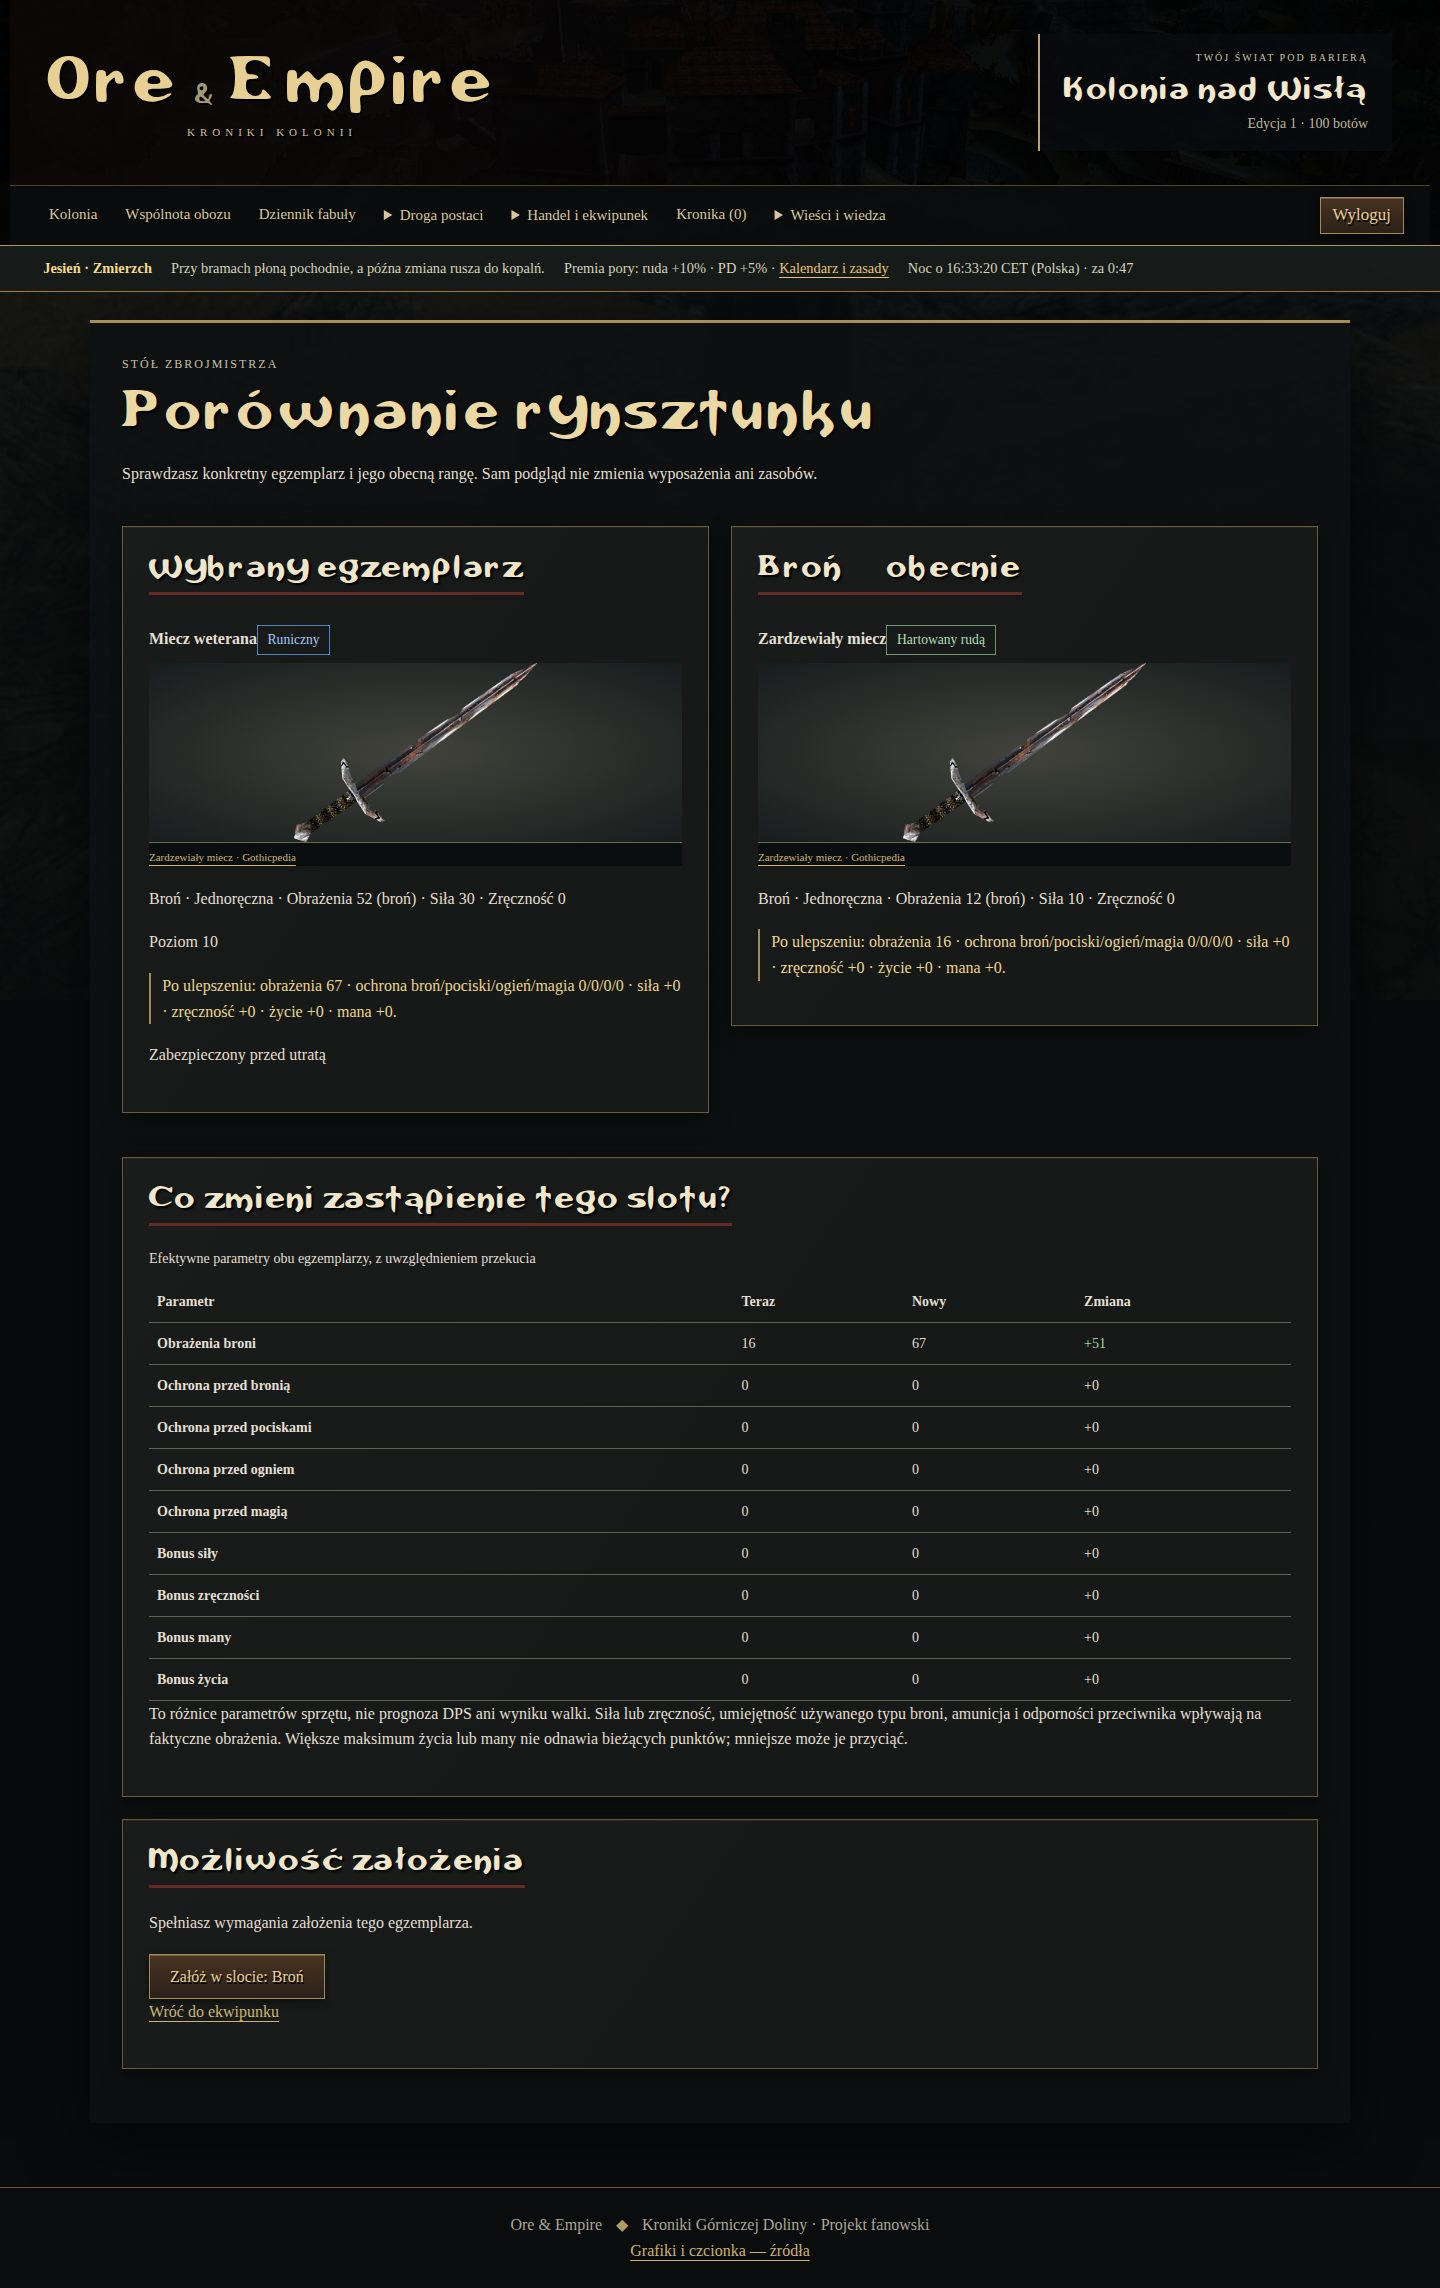
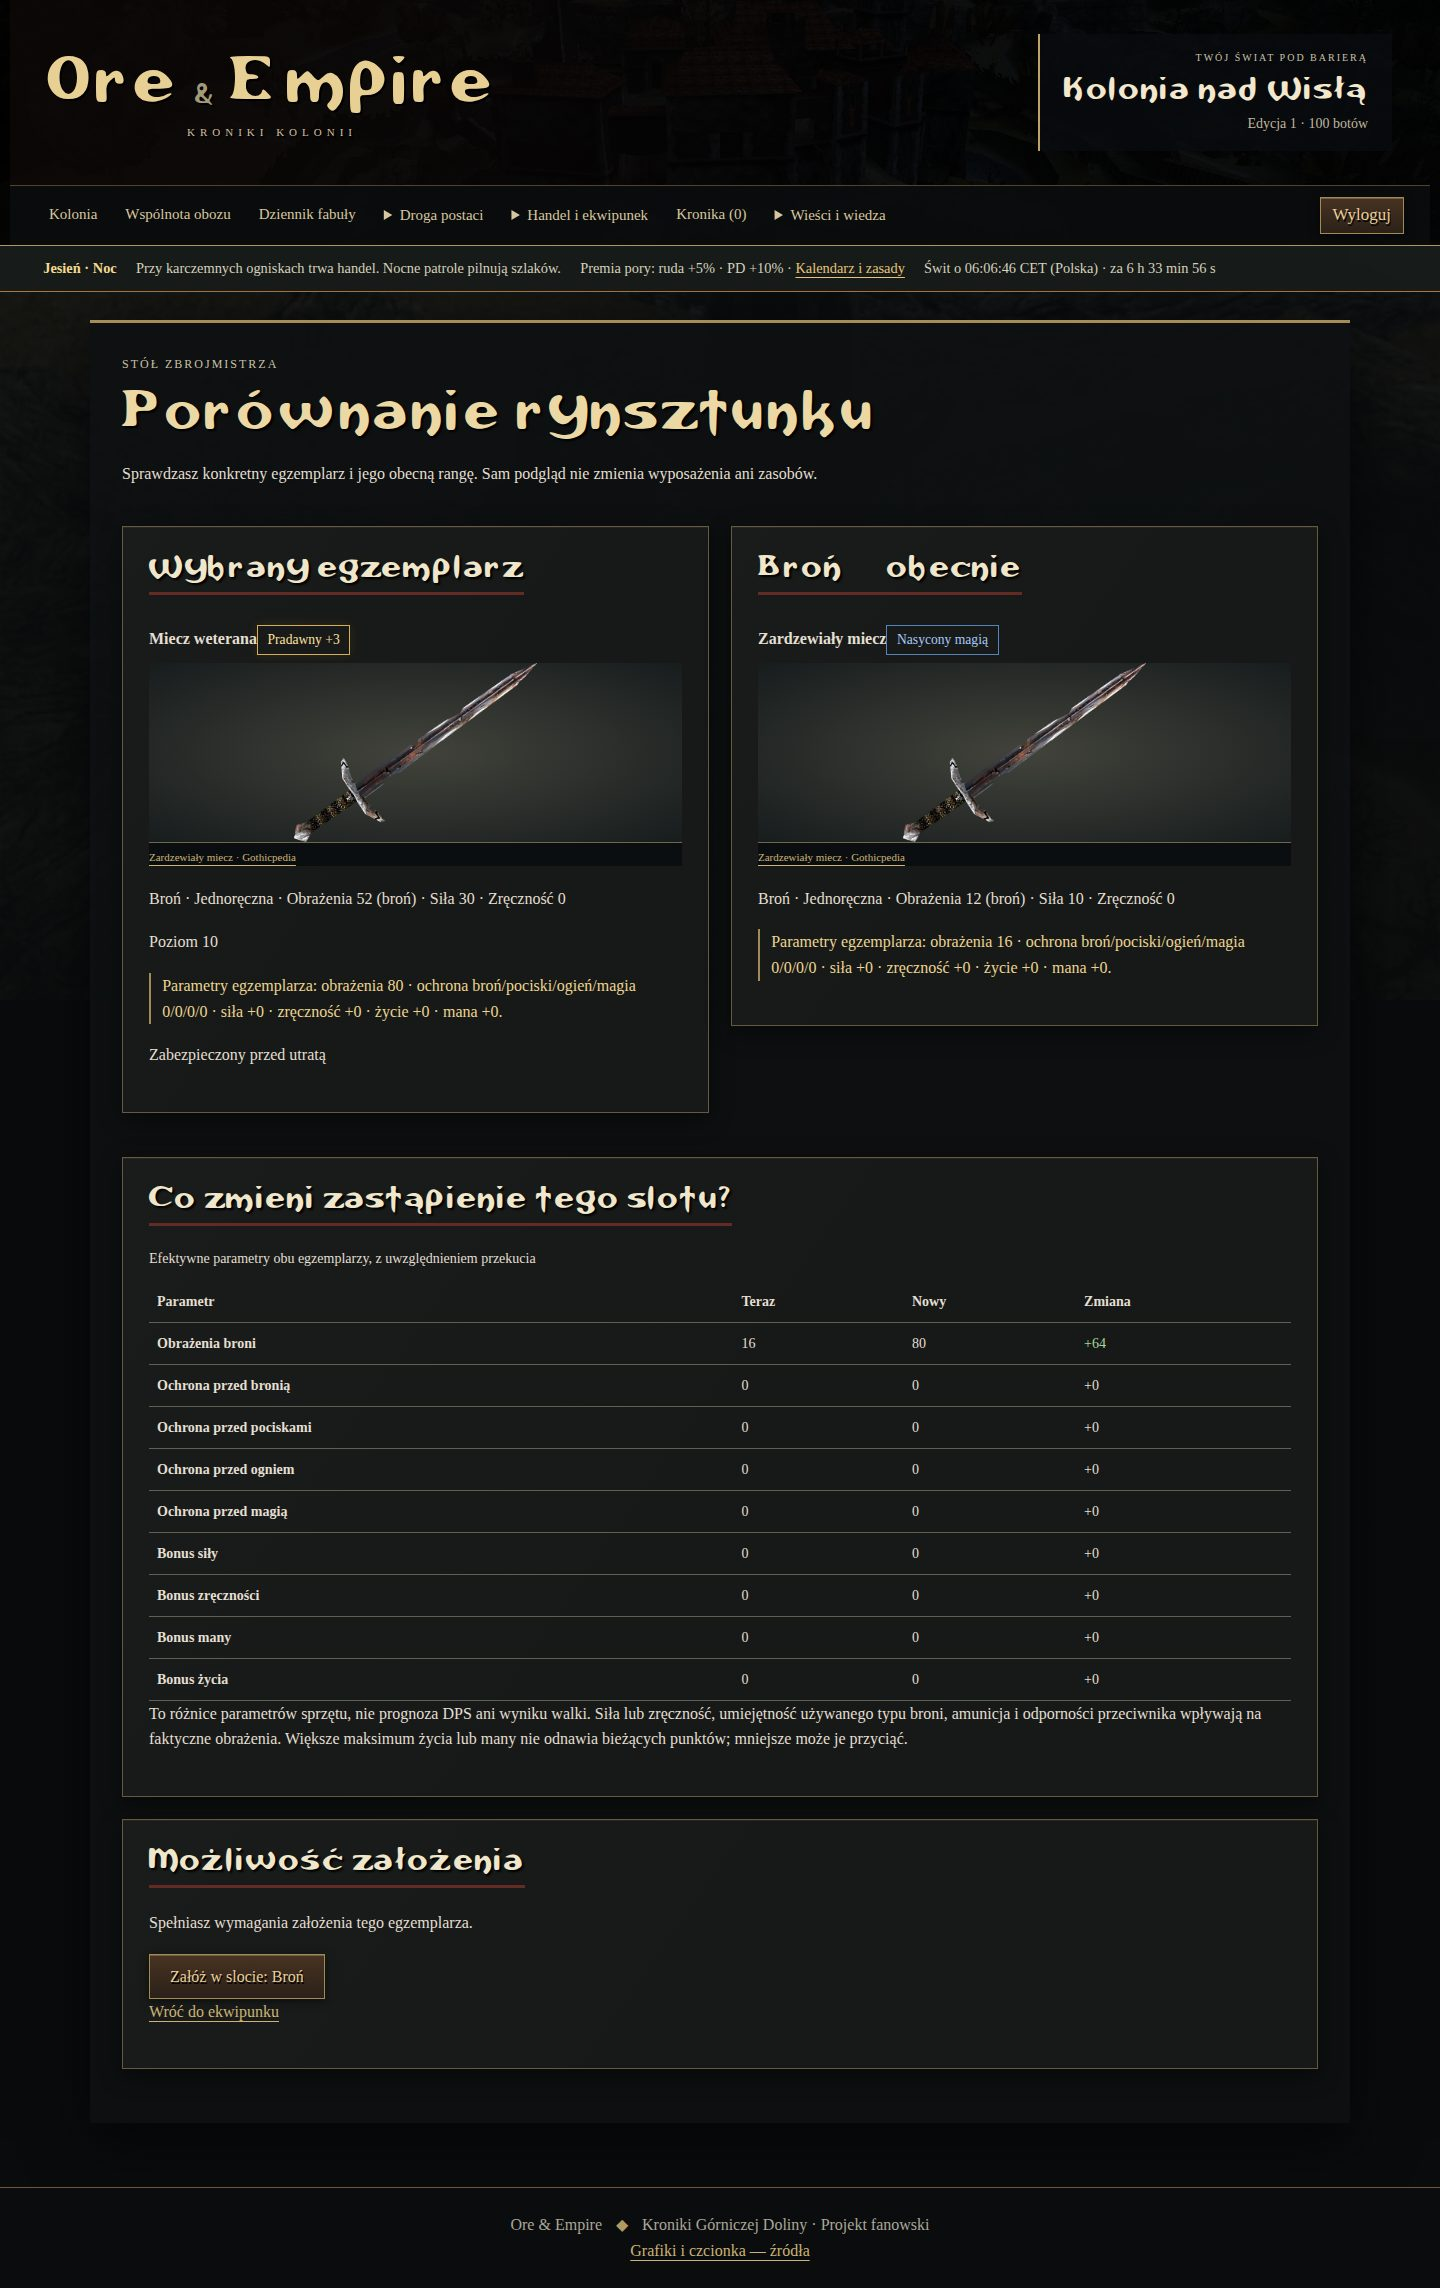
Udokumentuj rzadkości i testy oraz odśwież widoki kuźni

diff --git a/docs/SCREENSHOTS.md b/docs/SCREENSHOTS.md
@@ -3,15 +3,16 @@
 Zestaw **28 ujęć** z syntetycznego świata „Kolonia nad Wisłą”, z postacią
 `Skazaniec_Pokazowy` i 100 botami. Nie zawiera danych prywatnego administratora.
 
-**7 listopada 2026, migracja 0036:** odświeżono ekwipunek, targ i mobilny
-ekwipunek; dodano porównywarkę, mobilną porównywarkę i mobilny targ. Motyw
-`rynsztunek-i-targ-2`. Pełne ujęcia ekwipunku i porównywarki pokazują zaznaczone
-filtry, ochronę i parametry sprzętu; targ pokazuje widoczne okno (mobilny po
-przewinięciu do filtrów). Starsze ujęcia pozostałych ekranów pochodzą z tego
-samego dnia, z migracji 0032 i wcześniejszego motywu.
+**7 listopada 2026, migracja 0037:** odświeżono siedem ujęć — ekwipunek,
+kuźnię Pradawnego +3, targ, porównywarkę oraz trzy odpowiedniki mobilne.
+Motyw `rzadkosc-i-kuznia-3`. Rzadkość jest stała, a przekucie kończy się na +3.
+Pełne ujęcia ekwipunku i porównywarki pokazują filtry, ochronę oraz parametry;
+targ pokazuje widoczne okno (mobilny po przewinięciu do filtrów). Starsze ujęcia
+pozostałych ekranów pochodzą z tego samego dnia i wcześniejszych migracji/motywów.
 
-Kontrola GUI: 1440×1000, 390×844 i 320×844. Formularze ochrony, wyboru slotu,
-paginacji i wycofania własnej oferty sprawdzono w przeglądarce. [Raport](reports/rynsztunek-targ-gui-2026-11-07.json).
+Kontrola GUI: 1440×1000, 390×844 i 320×844. W przeglądarce wykonano trzy
+przekucia Pradawnego egzemplarza bez zmiany jego rzadkości oraz sprawdzono filtr
+targu i brak formularza +4. [Raport](reports/rzadkosc-kuznia-gui-2026-11-07.json).
 Hashe i czas wykonania każdego pliku są w `screenshots/manifest.json`.
 
 ## Kolonia i eksploracja
@@ -24,7 +25,7 @@ Hashe i czas wykonania każdego pliku są w `screenshots/manifest.json`.
 ## Ekwipunek i ekonomia
 
 ![Ekwipunek](screenshots/inventory.jpg)
-![Runiczny przedmiot w kuźni](screenshots/forge.jpg)
+![Pradawny +3 w kuźni](screenshots/forge.jpg)
 ![Katalog 140 broni G1](screenshots/catalog.jpg)
 ![Porównanie rynsztunku](screenshots/comparison.jpg)
 ![Targ mieszkańców](screenshots/market.jpg)
